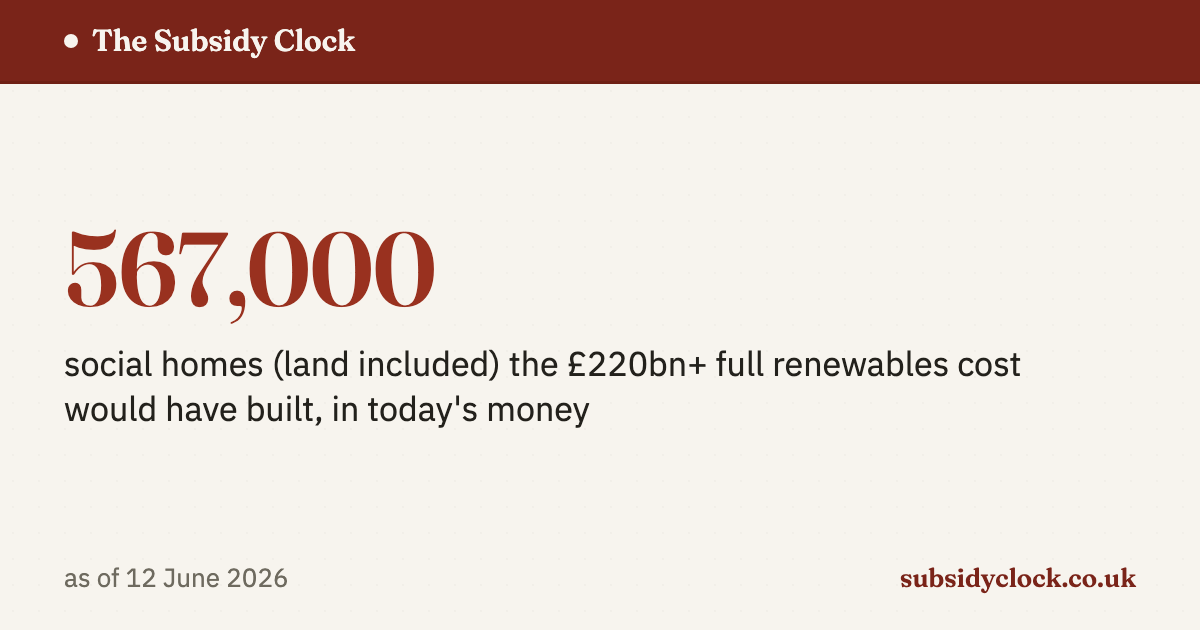
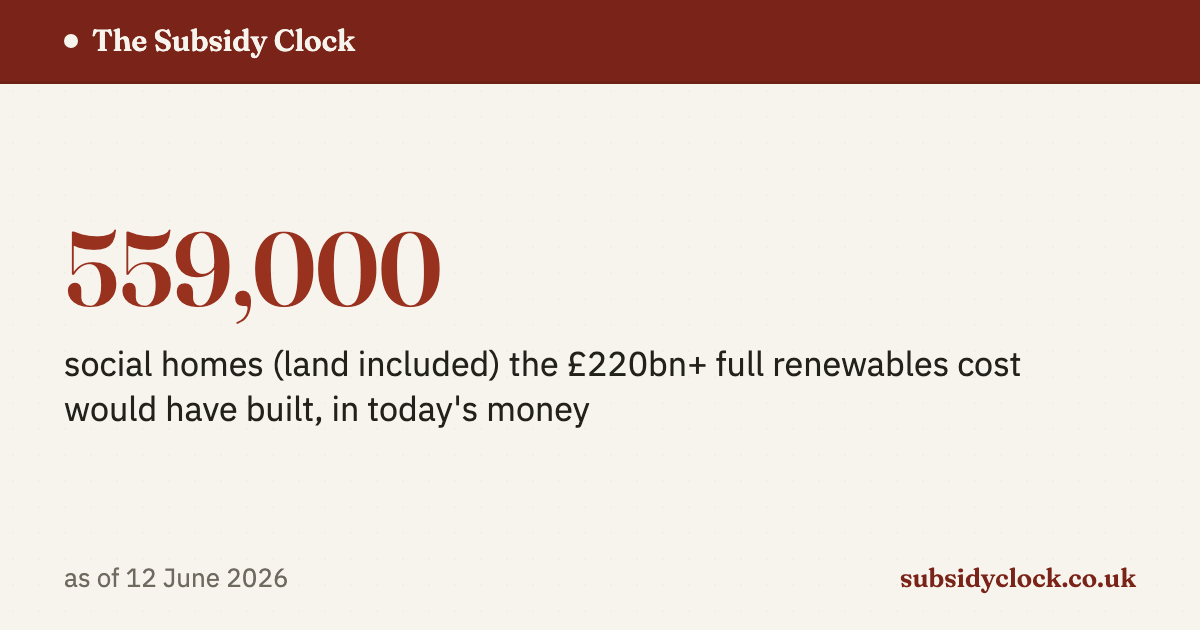
fix: chart card matches the dashboard's renewables perspective; counts divide the quoted floor; methodology wording hardened

Changed region(s): [[0.0925, 0.3619, 0.37, 0.5127]]

diff --git a/site/methodology.html b/site/methodology.html
@@ -114,8 +114,9 @@
   <p>The <a href="https://www.ref.org.uk/ref-blog/390-uk-renewable-electricity-subsidy-totals-2002-to-the-present-day">Renewable
   Energy Foundation's April 2025 study</a> independently reconstructs the same bill:
   <strong>£185&nbsp;billion nominal — £223&nbsp;billion in 2024 prices — for 2002 to
-  FY&nbsp;2023/24</strong>. The Clock's combined total reaches REF's figure despite
-  deliberately stricter attributions, because it includes the years since.
+  FY&nbsp;2023/24</strong>. In 2024 prices the Clock's combined total, counted to today,
+  reaches REF's figure despite deliberately stricter attributions, because it includes
+  the years since.
   Compared like-for-like over the same period, component by component:</p>
   <table class="data-table" id="ref-recon-table">
     <thead><tr><th>Component</th><th class="num-col">The Clock</th><th class="num-col">REF</th><th class="num-col">Divergence</th><th>Note</th></tr></thead>
@@ -171,7 +172,7 @@
   <p>The per-second rates that drive the live counter are derived from each scheme’s recent run-rate: the trailing 365 days for daily schemes (CfD and constraints), the last 12 months for the Capacity Market, and the latest completed scheme year for RO and FIT. Values shown between official data updates are therefore <strong>estimates</strong>, and are replaced by official figures as they are published.</p>
 
   <h2 id="prices">Nominal pounds, and 2024 prices</h2>
-  <p>The dashboard counts <strong>nominal pounds</strong>: money summed as it was actually paid, the debt-clock convention. The objection that 2002 pounds are not 2026 pounds is fair, so the same annual series is shown here deflated to 2024 prices (HMT GDP deflator). The real-terms total is <em>larger</em> than the nominal one — early-years subsidy was worth more in today's money — which is why nominal is the conservative choice for the headline.</p>
+  <p>The dashboard counts <strong>nominal pounds</strong>: money summed as it was actually paid, the debt-clock convention. The objection that 2002 pounds are not 2026 pounds is fair, so the same annual series is shown here deflated to 2024 prices (ONS CPIH). The real-terms total is <em>larger</em> than the nominal one — early-years subsidy was worth more in today's money — which is why nominal is the conservative choice for the headline.</p>
   <table class="data-table" id="prices-table">
     <thead><tr><th>Year</th><th class="num-col">Nominal</th><th class="num-col">2024 prices</th></tr></thead>
     <tbody></tbody>
@@ -392,13 +393,16 @@
       '<td class="num-col money">' + refBn(refRecon.ref_real_2024_gbp) + '</td>' +
       '<td class="num-col"></td>' +
       '<td class="cell-dim">REF’s real total spans its full window and uses REF’s own deflation; ours is CPIH</td></tr>';
+    var coverage = refRecon.stricter_gap_gbp >= refRecon.gap_gbp
+      ? ', more than the whole ' + refBn(refRecon.gap_gbp) + ' gap'
+      : ' of the ' + refBn(refRecon.gap_gbp) + ' gap';
     document.getElementById('ref-recon-summary').innerHTML =
       'Like-for-like, the Clock lands <strong>' + Math.abs(totalPct).toFixed(0) +
       (totalPct < 0 ? '% below' : '% above') + ' REF’s total</strong>. The components its attributions deliberately count more ' +
       'strictly — the power-sector-only ETS and CCL shares, BSUoS with constraint payments ' +
       'netted off — or decline to count at all (REGO) remove ' + refBn(refRecon.stricter_gap_gbp) +
-      ', more than the whole ' + refBn(refRecon.gap_gbp) + ' gap; everywhere else the two ' +
-      'reconstructions agree within a few per cent.';
+      coverage + '; everywhere else the two ' +
+      'reconstructions agree within ten per cent.';
   }
 
   // real-terms deflator

diff --git a/site/s/homes.html b/site/s/homes.html
@@ -3,9 +3,9 @@
 <head>
 <meta charset="utf-8">
 <meta name="robots" content="noindex">
-<title>567,000 social homes (land included) the £220bn+ full renewables cost would have built, in today&#x27;s money — The Subsidy Clock</title>
+<title>559,000 social homes (land included) the £220bn+ full renewables cost would have built, in today&#x27;s money — The Subsidy Clock</title>
 <meta name="description" content="As of 12 June 2026. Every figure traces to an official source.">
-<meta property="og:title" content="567,000 social homes (land included) the £220bn+ full renewables cost would have built, in today&#x27;s money">
+<meta property="og:title" content="559,000 social homes (land included) the £220bn+ full renewables cost would have built, in today&#x27;s money">
 <meta property="og:description" content="As of 12 June 2026. Every figure traces to an official source.">
 <meta property="og:type" content="website">
 <meta property="og:site_name" content="The Subsidy Clock">
@@ -18,7 +18,7 @@
 <meta http-equiv="refresh" content="0;url=https://subsidyclock.co.uk/">
 </head>
 <body>
-<p>567,000 social homes (land included) the £220bn+ full renewables cost would have built, in today&#x27;s money (as of 12 June 2026) — <a href="https://subsidyclock.co.uk/">The Subsidy Clock</a>.</p>
+<p>559,000 social homes (land included) the £220bn+ full renewables cost would have built, in today&#x27;s money (as of 12 June 2026) — <a href="https://subsidyclock.co.uk/">The Subsidy Clock</a>.</p>
 <script>location.replace("https://subsidyclock.co.uk/");</script>
 </body>
 </html>

diff --git a/site/embed/widget.html b/site/embed/widget.html
@@ -45,7 +45,7 @@
 (function () {
   'use strict';
   // stamped at build time; the fetch below refreshes them if this file is cached
-  var stamped = { "cum": 105464600848.68517, "rate": 387.12311946333614, "generated": "2026-06-12T16:56:02.079395+00:00" };
+  var stamped = { "cum": 105464600848.68517, "rate": 387.12311946333614, "generated": "2026-06-12T17:21:54.426952+00:00" };
   var GOATCOUNTER_CODE = ''; // set with the site's code to log embed loads
 
   var q = new URLSearchParams(location.search);

diff --git a/src/subsidy_engine/sharecards.py b/src/subsidy_engine/sharecards.py
@@ -40,12 +40,18 @@ EXPLAINERS = {
 }
 
 
-def cumulative_svg(timeseries: dict, width: int = 1072, height: int = 400) -> str:
+def cumulative_svg(timeseries: dict, member_ids: list[str],
+                   width: int = 1072, height: int = 400) -> str:
     """Stacked cumulative bars (the dashboard chart's default view) as a
     static SVG for the chart share card - a deliberate small
-    re-implementation of renderChart's cumulative view in site/app.js."""
+    re-implementation of renderChart's cumulative view in site/app.js.
+    member_ids restricts the stack to the schemes the dashboard chart
+    shows under the renewables perspective (the caller computes it from
+    breakdown.json), so the card can never stack schemes the figure it
+    accompanies excludes."""
     schemes = timeseries["schemes"]
-    member = [(sid, col) for sid, col in CHART_STACK if sid in schemes]
+    member = [(sid, col) for sid, col in CHART_STACK
+              if sid in member_ids and sid in schemes]
     years = sorted({a["year"] for sid, _ in member for a in schemes[sid]["annual"]})
     cum: dict[str, dict[int, float]] = {}
     for sid, _ in member:
@@ -277,8 +283,10 @@ def compose(template: str, fact: dict, asof: str) -> str:
     return html
 
 
-def render_chart_card(timeseries: dict, fact: dict, asof: str, out_dir: Path | str) -> None:
-    """Screenshot the cumulative-bars chart card (the dashboard's default view)."""
+def render_chart_card(timeseries: dict, member_ids: list[str], fact: dict,
+                      asof: str, out_dir: Path | str) -> None:
+    """Screenshot the cumulative-bars chart card (the dashboard's default
+    view); member_ids is passed through to cumulative_svg."""
     import shutil
     import tempfile
 
@@ -289,7 +297,7 @@ def render_chart_card(timeseries: dict, fact: dict, asof: str, out_dir: Path | s
     template = (TEMPLATES / "sharecard-chart.html").read_text()
     html = (template
             .replace("{{TITLE}}", "The bill since 2002")
-            .replace("{{SVG}}", cumulative_svg(timeseries))
+            .replace("{{SVG}}", cumulative_svg(timeseries, member_ids))
             .replace("{{ASOF}}", asof))
     if "{{" in html:
         raise ValueError("unfilled template token in chart card HTML")

diff --git a/tests/test_sharecards.py b/tests/test_sharecards.py
@@ -161,12 +161,22 @@ def test_cumulative_svg_stacks_and_is_monotonic():
         "ro": {"annual": [{"year": 2002, "cost_gbp": 1.0e9}, {"year": 2003, "cost_gbp": 2.0e9}]},
         "bsuos": {"annual": [{"year": 2003, "cost_gbp": 0.5e9}]},
     }}
-    svg = sharecards.cumulative_svg(timeseries)
+    svg = sharecards.cumulative_svg(timeseries, ["ro", "bsuos"])
     assert svg.startswith("<svg")
     # 2002: one segment (ro=1bn); 2003: ro=3bn cumulative + bsuos=0.5bn
     assert svg.count("<rect") == 3
     assert "#6f2014" in svg     # ro colour
     assert "#b3c8d8" in svg     # bsuos colour
+
+
+def test_cumulative_svg_excludes_non_member_schemes():
+    timeseries = {"schemes": {
+        "ro": {"annual": [{"year": 2002, "cost_gbp": 1.0e9}]},
+        "cfd_low_carbon": {"annual": [{"year": 2002, "cost_gbp": 9.0e9}]},
+    }}
+    svg = sharecards.cumulative_svg(timeseries, ["ro"])
+    assert svg.count("<rect") == 1
+    assert "#d48f6b" not in svg   # cfd_low_carbon colour absent
 
 
 def test_load_facts_includes_the_bill_chart_fact(data_dir):
@@ -184,7 +194,7 @@ def test_render_chart_card_produces_1200x630_png(tmp_path):
         "ro": {"annual": [{"year": 2002, "cost_gbp": 1.0e9}, {"year": 2003, "cost_gbp": 2.0e9}]},
     }}
     fact = {"slug": "the-bill", "chart": True}
-    sharecards.render_chart_card(timeseries, fact, "12 June 2026", tmp_path)
+    sharecards.render_chart_card(timeseries, ["ro"], fact, "12 June 2026", tmp_path)
     try:
         assert _png_size(tmp_path / "the-bill.png") == (1200, 630)
     except Exception as exc:

diff --git a/src/subsidy_engine/sitedata.py b/src/subsidy_engine/sitedata.py
@@ -91,11 +91,15 @@ def _factoids(model: dict, ctx: dict, deflators: pl.DataFrame | None) -> list[di
             and "cumulative_gbp_2024" in model["indirect"]:
         combined_real = r["cumulative_gbp_2024"] + model["indirect"]["cumulative_gbp_2024"]
     if combined_real is not None:
-        floored_bn = int(_floor_step_below(combined_real, 1e10) / 1e9)
+        # counts divide the quoted £10bn floor, not the raw total, so a
+        # reader checking the sentence's own arithmetic can only get MORE
+        # than we claim — self-consistent and stricter
+        combined_floor = _floor_step_below(combined_real, 1e10)
+        floored_bn = int(combined_floor / 1e9)
         full = f"£{floored_bn}bn+"
         home = eq.get("social_home_gbp")
         if home:
-            fig = f"{int(_floor_to(combined_real / home['value'], 1000)):,}"
+            fig = f"{int(_floor_to(combined_floor / home['value'], 1000)):,}"
             out.append({
                 "slug": "homes", "figure": fig,
                 "sentence": (f"The {full} full cost of supporting renewables would have built "
@@ -112,7 +116,7 @@ def _factoids(model: dict, ctx: dict, deflators: pl.DataFrame | None) -> list[di
             idx = dict(deflators.iter_rows())
             base = hpc.get("price_base")
             unit = hpc["value"] * (idx[2024] / idx[base]) if base else hpc["value"]
-            n = int(combined_real // unit)
+            n = int(combined_floor // unit)
             out.append({
                 "slug": "hinkley", "figure": str(n),
                 "sentence": (f"The {full} full cost of supporting renewables would have built "

diff --git a/src/subsidy_engine/__main__.py b/src/subsidy_engine/__main__.py
@@ -150,9 +150,16 @@ def cmd_build_cards(args: argparse.Namespace) -> int:
     facts, asof, datestr = sharecards.load_facts(site / "data")
     sharecards.render([f for f in facts if not f.get("chart")], asof, site / "share")
     timeseries = json.loads((site / "data" / "timeseries.json").read_text())
+    breakdown = json.loads((site / "data" / "breakdown.json").read_text())
+    # mirrors app.js renderChart memberIds — renewables perspective:
+    # indirect-layer schemes always join; direct schemes only when they
+    # carry the renewables perspective (so the card excludes what the
+    # /s/the-bill figure excludes, e.g. cfd_low_carbon).
+    member_ids = [s["id"] for s in breakdown["schemes"]
+                  if s["layer"] == "indirect" or "renewables" in s["perspectives"]]
     for fact in facts:
         if fact.get("chart"):
-            sharecards.render_chart_card(timeseries, fact, asof, site / "share")
+            sharecards.render_chart_card(timeseries, member_ids, fact, asof, site / "share")
     sharecards.write_stubs(facts, site / "s", asof, datestr)
     n_stubs = sum(1 for f in facts if f.get("stub"))
     print(f"[ok] {len(facts)} share cards and {n_stubs} share stubs written (as of {asof})")

diff --git a/tests/test_sitedata.py b/tests/test_sitedata.py
@@ -77,12 +77,12 @@ def test_factoids_floored_figures_and_sentences(tmp_path):
     assert "312,000 NHS nurses" in by_slug["nurses"]["sentence"]
 
     # combined real 223.35e9 -> £10bn floor strictly below -> 220
-    # homes: 223.35e9 / 393000 = 568,320.6 -> 568,000
-    assert by_slug["homes"]["figure"] == "568,000"
+    # counts divide the quoted floor: homes = 220e9 / 393000 = 559,796.4 -> 559,000
+    assert by_slug["homes"]["figure"] == "559,000"
     assert "£220bn+" in by_slug["homes"]["sentence"]
     assert "in today" in by_slug["homes"]["sentence"]  # 'in today’s money' label
 
-    # hinkley: 35e9 * 132.9/100 = 46.515e9; 223.35 / 46.515 = 4.80 -> 4
+    # hinkley: 35e9 * 132.9/100 = 46.515e9; 220 / 46.515 = 4.73 -> 4
     assert by_slug["hinkley"]["figure"] == "4"
     assert "4 Hinkley Point C" in by_slug["hinkley"]["sentence"]
 